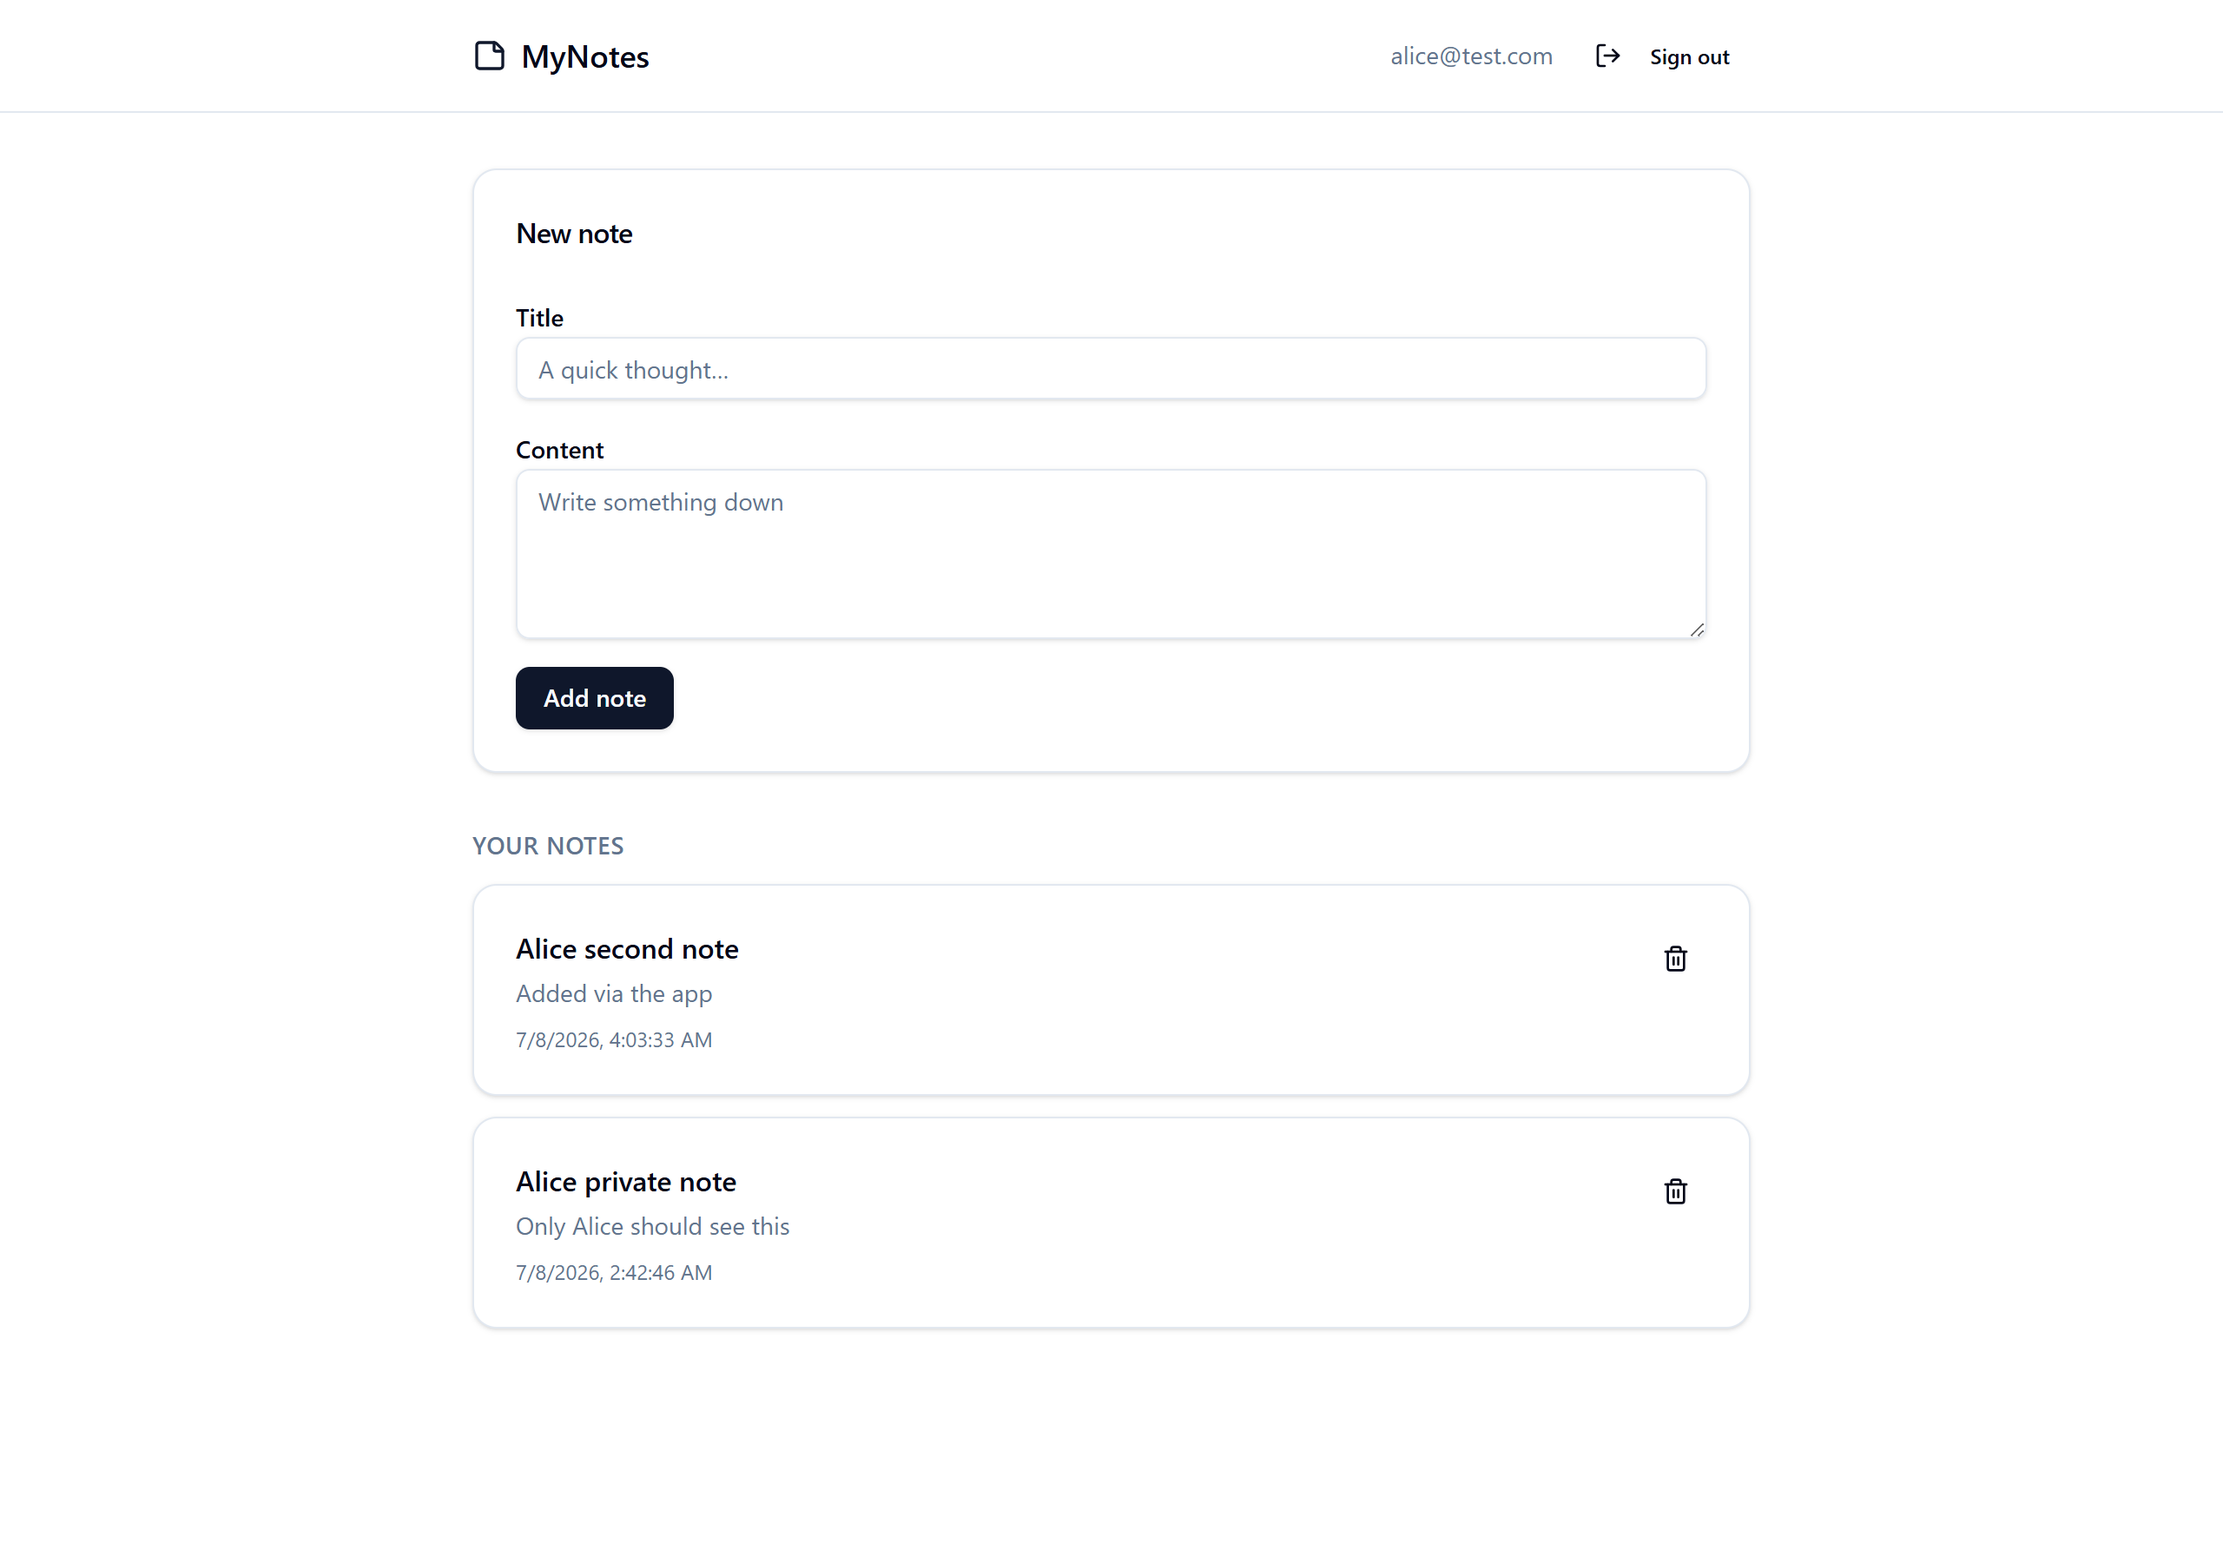
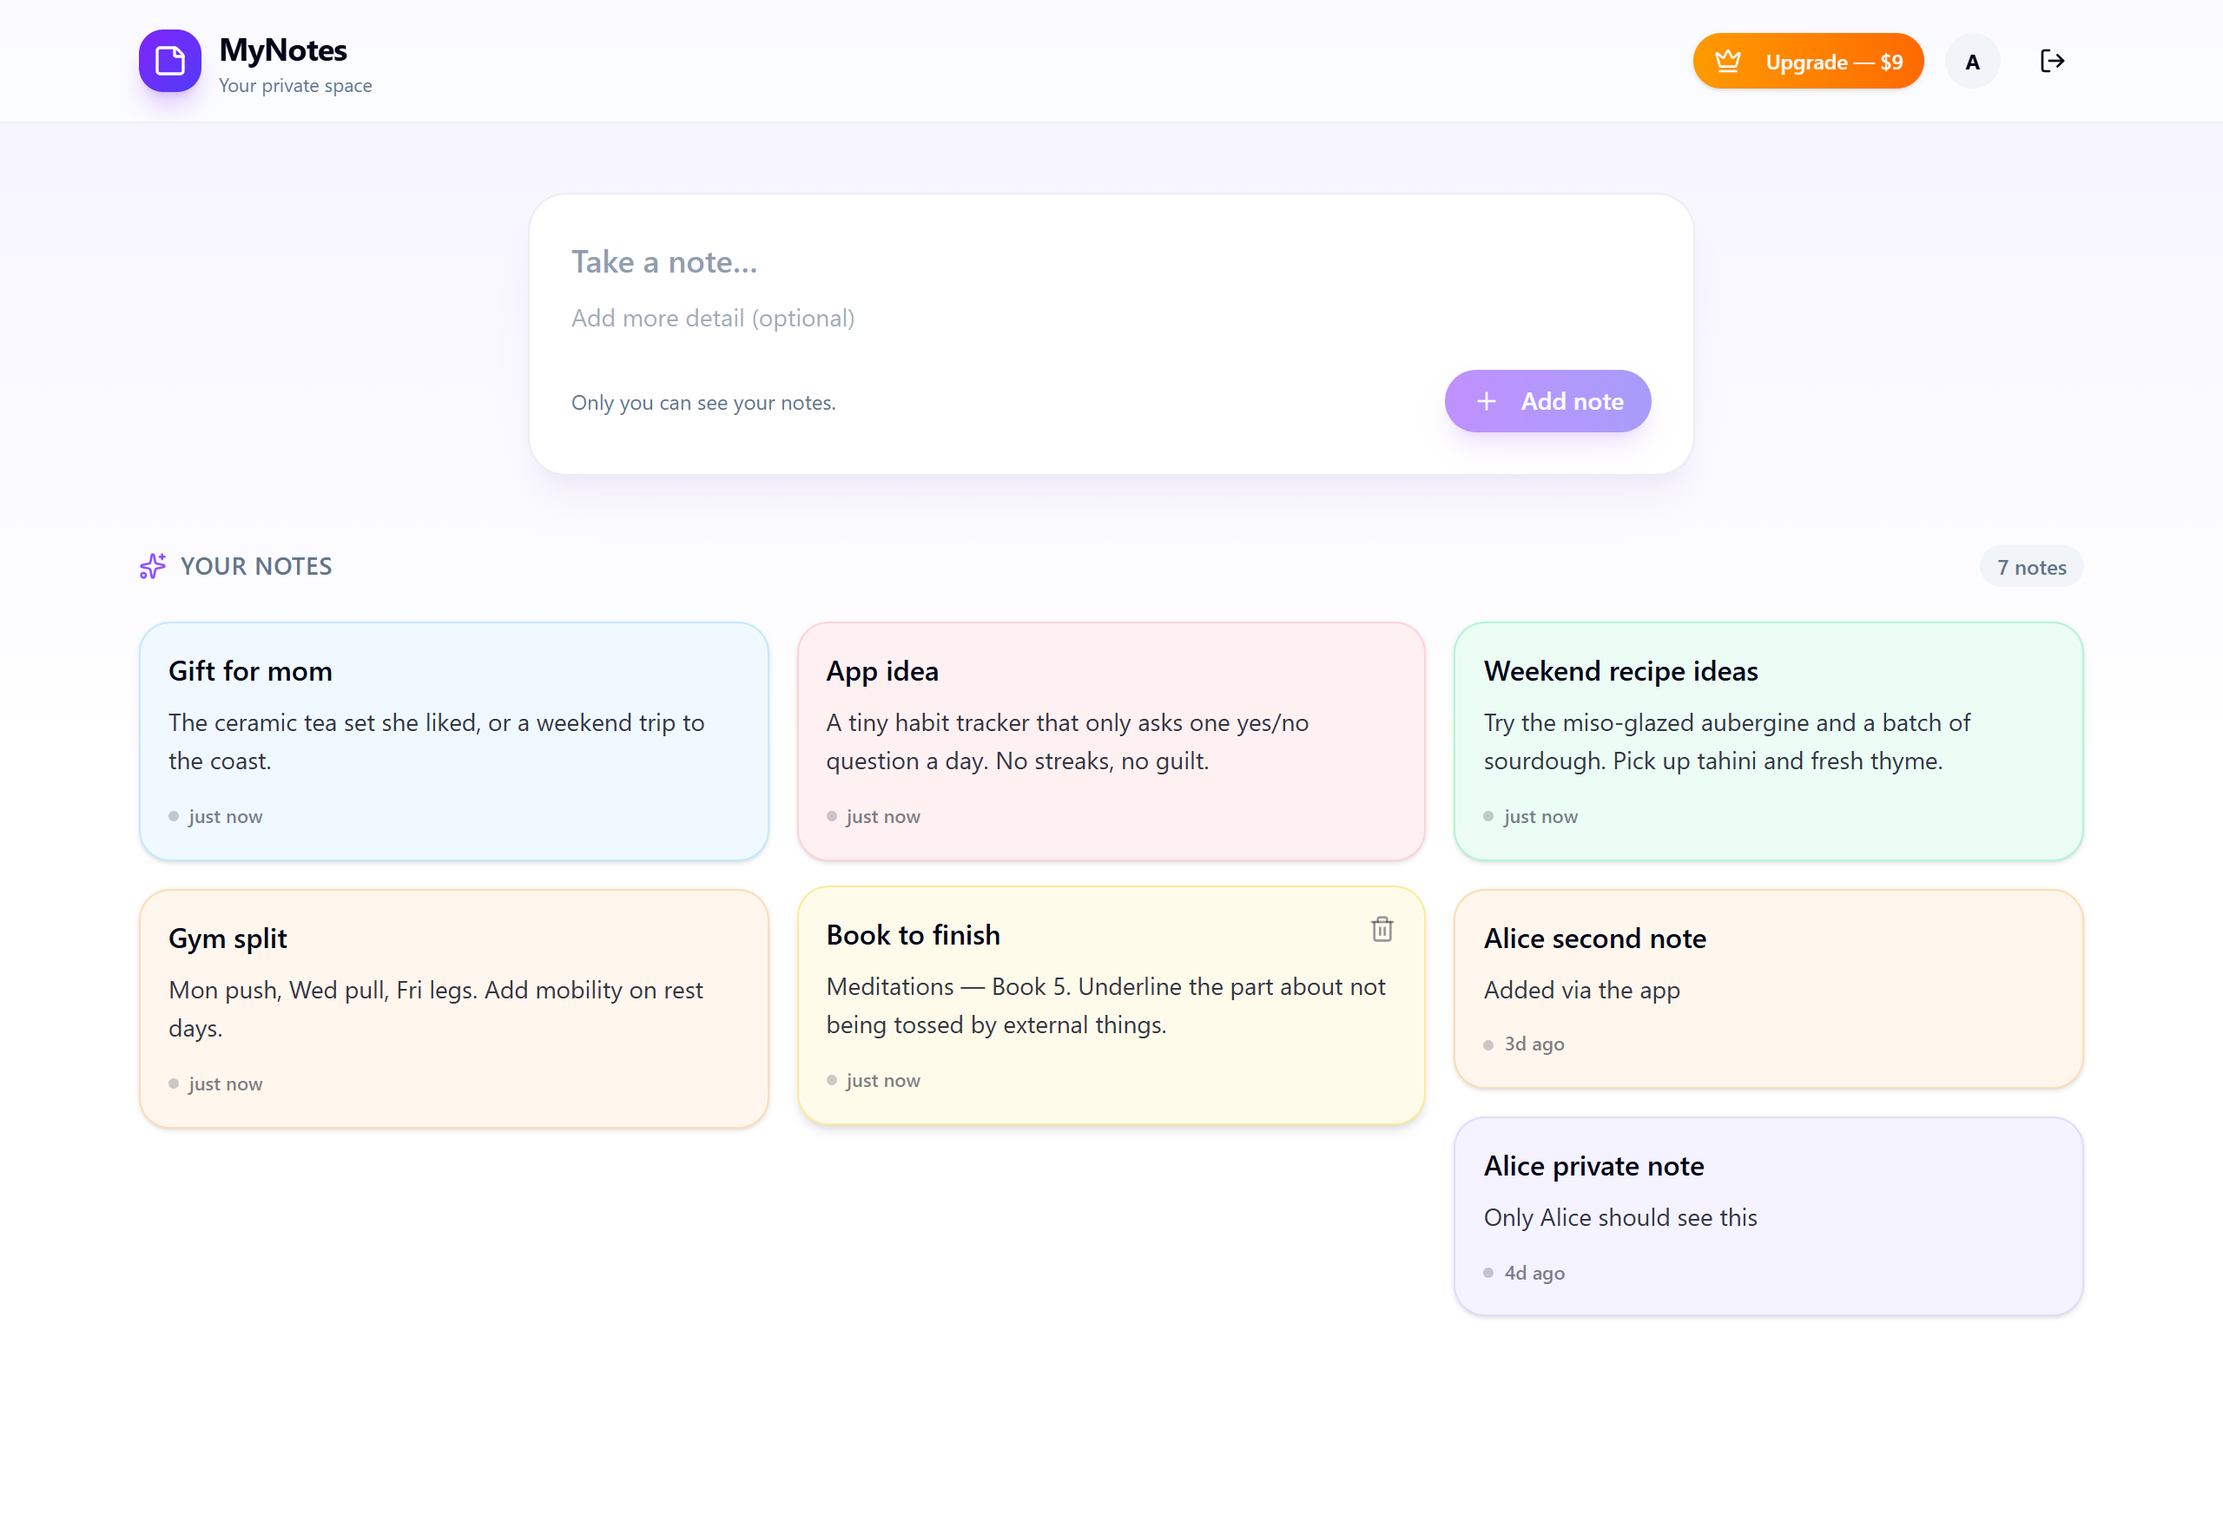
Redesign notes board: colorful masonry, gradient UI, richer composer
Replace the plain list with a Google-Keep-style board — pastel sticky-note
cards in a masonry layout, gradient header/composer/buttons, avatar, note
counter, skeleton loading, and a friendly empty state. Auth/RLS/Stripe
logic unchanged. Refresh the portfolio screenshot to match.

diff --git a/src/routes/_authenticated/notes.tsx b/src/routes/_authenticated/notes.tsx
@@ -2,13 +2,9 @@ import { createFileRoute, useNavigate } from "@tanstack/react-router";
 import { useEffect, useState } from "react";
 import { supabase } from "@/integrations/supabase/client";
 import { Button } from "@/components/ui/button";
-import { Input } from "@/components/ui/input";
-import { Textarea } from "@/components/ui/textarea";
-import { Card, CardContent, CardHeader, CardTitle } from "@/components/ui/card";
-import { Label } from "@/components/ui/label";
 import { toast } from "sonner";
 import { Toaster } from "@/components/ui/sonner";
-import { Trash2, StickyNote, LogOut, Crown } from "lucide-react";
+import { Trash2, StickyNote, LogOut, Crown, Plus, Sparkles } from "lucide-react";
 
 type Note = {
   id: string;
@@ -27,6 +23,27 @@ export const Route = createFileRoute("/_authenticated/notes")({
   }),
   component: NotesPage,
 });
+
+// Pastel palettes for the sticky-note cards, chosen deterministically per note.
+const NOTE_COLORS = [
+  "bg-amber-50 border-amber-200/80 dark:bg-amber-950/30 dark:border-amber-900/50",
+  "bg-rose-50 border-rose-200/80 dark:bg-rose-950/30 dark:border-rose-900/50",
+  "bg-sky-50 border-sky-200/80 dark:bg-sky-950/30 dark:border-sky-900/50",
+  "bg-violet-50 border-violet-200/80 dark:bg-violet-950/30 dark:border-violet-900/50",
+  "bg-emerald-50 border-emerald-200/80 dark:bg-emerald-950/30 dark:border-emerald-900/50",
+  "bg-orange-50 border-orange-200/80 dark:bg-orange-950/30 dark:border-orange-900/50",
+];
+const colorFor = (id: string) =>
+  NOTE_COLORS[[...id].reduce((a, c) => a + c.charCodeAt(0), 0) % NOTE_COLORS.length];
+
+function timeAgo(iso: string) {
+  const diff = (Date.now() - new Date(iso).getTime()) / 1000;
+  if (diff < 60) return "just now";
+  if (diff < 3600) return `${Math.floor(diff / 60)}m ago`;
+  if (diff < 86400) return `${Math.floor(diff / 3600)}h ago`;
+  if (diff < 604800) return `${Math.floor(diff / 86400)}d ago`;
+  return new Date(iso).toLocaleDateString(undefined, { month: "short", day: "numeric" });
+}
 
 function NotesPage() {
   const navigate = useNavigate();
@@ -122,108 +139,145 @@ function NotesPage() {
     navigate({ to: "/auth" });
   };
 
+  const initial = (user.email ?? "?")[0]?.toUpperCase();
+
   return (
-    <div className="min-h-screen bg-background">
+    <div className="min-h-screen bg-gradient-to-b from-violet-50 via-background to-background dark:from-violet-950/20">
       <Toaster />
-      <header className="border-b">
-        <div className="max-w-3xl mx-auto px-4 py-4 flex items-center justify-between">
-          <div className="flex items-center gap-2">
-            <StickyNote className="h-5 w-5 text-primary" />
-            <h1 className="text-lg font-semibold">MyNotes</h1>
+
+      {/* Header */}
+      <header className="sticky top-0 z-30 border-b border-border/60 bg-background/70 backdrop-blur-xl">
+        <div className="mx-auto flex max-w-6xl items-center justify-between px-4 py-3.5">
+          <div className="flex items-center gap-2.5">
+            <span className="grid h-9 w-9 place-items-center rounded-xl bg-gradient-to-br from-violet-600 to-indigo-600 text-white shadow-lg shadow-violet-600/25">
+              <StickyNote className="h-5 w-5" />
+            </span>
+            <div className="leading-tight">
+              <h1 className="text-lg font-bold tracking-tight">MyNotes</h1>
+              <p className="text-[11px] text-muted-foreground">Your private space</p>
+            </div>
           </div>
-          <div className="flex items-center gap-3">
-            <span className="text-sm text-muted-foreground hidden sm:inline">{user.email}</span>
+          <div className="flex items-center gap-2 sm:gap-3">
             {isPaid ? (
-              <span className="inline-flex items-center gap-1 rounded-full bg-primary/10 px-3 py-1 text-xs font-semibold text-primary">
+              <span className="inline-flex items-center gap-1.5 rounded-full bg-gradient-to-r from-amber-400 to-amber-500 px-3 py-1.5 text-xs font-bold text-white shadow-sm">
                 <Crown className="h-3.5 w-3.5" /> Premium
               </span>
             ) : (
-              <Button size="sm" onClick={upgrade} disabled={upgrading}>
-                <Crown className="h-4 w-4 mr-2" />
+              <Button
+                size="sm"
+                onClick={upgrade}
+                disabled={upgrading}
+                className="rounded-full bg-gradient-to-r from-amber-500 to-orange-500 font-semibold shadow-sm hover:opacity-90"
+              >
+                <Crown className="mr-1.5 h-4 w-4" />
                 {upgrading ? "Redirecting…" : "Upgrade — $9"}
               </Button>
             )}
-            <Button variant="ghost" size="sm" onClick={signOut}>
-              <LogOut className="h-4 w-4 mr-2" /> Sign out
+            <div className="hidden items-center gap-2 sm:flex">
+              <span className="grid h-8 w-8 place-items-center rounded-full bg-muted text-xs font-bold text-foreground">
+                {initial}
+              </span>
+            </div>
+            <Button variant="ghost" size="icon" onClick={signOut} aria-label="Sign out" className="rounded-full">
+              <LogOut className="h-4 w-4" />
             </Button>
           </div>
         </div>
       </header>
 
-      <main className="max-w-3xl mx-auto px-4 py-8 space-y-8">
-        <Card>
-          <CardHeader>
-            <CardTitle className="text-base">New note</CardTitle>
-          </CardHeader>
-          <CardContent>
-            <form onSubmit={addNote} className="space-y-4">
-              <div className="space-y-2">
-                <Label htmlFor="title">Title</Label>
-                <Input
-                  id="title"
-                  value={title}
-                  onChange={(e) => setTitle(e.target.value)}
-                  placeholder="A quick thought…"
-                  required
-                />
+      <main className="mx-auto max-w-6xl px-4 py-8 sm:py-10">
+        {/* Composer */}
+        <div className="mx-auto mb-10 max-w-2xl">
+          <form
+            onSubmit={addNote}
+            className="group relative rounded-3xl border border-border/70 bg-card p-2 shadow-xl shadow-violet-900/5 transition-shadow focus-within:shadow-2xl focus-within:shadow-violet-900/10"
+          >
+            <div className="rounded-[1.25rem] p-4">
+              <input
+                value={title}
+                onChange={(e) => setTitle(e.target.value)}
+                placeholder="Take a note…"
+                required
+                className="w-full bg-transparent text-lg font-semibold text-foreground outline-none placeholder:text-muted-foreground/70"
+              />
+              <textarea
+                value={content}
+                onChange={(e) => setContent(e.target.value)}
+                placeholder="Add more detail (optional)"
+                rows={content ? 3 : 1}
+                className="mt-2 w-full resize-none bg-transparent text-sm leading-relaxed text-foreground outline-none placeholder:text-muted-foreground/60"
+              />
+              <div className="mt-3 flex items-center justify-between">
+                <span className="text-xs text-muted-foreground">Only you can see your notes.</span>
+                <Button
+                  type="submit"
+                  disabled={saving || !title.trim()}
+                  className="rounded-full bg-gradient-to-r from-violet-600 to-indigo-600 font-semibold shadow-lg shadow-violet-600/25 hover:opacity-90"
+                >
+                  <Plus className="mr-1 h-4 w-4" />
+                  {saving ? "Adding…" : "Add note"}
+                </Button>
               </div>
-              <div className="space-y-2">
-                <Label htmlFor="content">Content</Label>
-                <Textarea
-                  id="content"
-                  value={content}
-                  onChange={(e) => setContent(e.target.value)}
-                  placeholder="Write something down"
-                  rows={4}
-                />
-              </div>
-              <Button type="submit" disabled={saving}>
-                {saving ? "Adding…" : "Add note"}
-              </Button>
-            </form>
-          </CardContent>
-        </Card>
+            </div>
+          </form>
+        </div>
 
-        <section className="space-y-3">
-          <h2 className="text-sm font-medium text-muted-foreground uppercase tracking-wide">
-            Your notes
+        {/* Stats row */}
+        <div className="mb-5 flex items-center justify-between">
+          <h2 className="flex items-center gap-2 text-sm font-semibold uppercase tracking-wide text-muted-foreground">
+            <Sparkles className="h-4 w-4 text-violet-500" /> Your notes
           </h2>
-          {loading ? (
-            <p className="text-sm text-muted-foreground">Loading…</p>
-          ) : notes.length === 0 ? (
-            <p className="text-sm text-muted-foreground">No notes yet. Add your first above.</p>
-          ) : (
-            <ul className="space-y-3">
-              {notes.map((n) => (
-                <li key={n.id}>
-                  <Card>
-                    <CardContent className="pt-6 flex items-start justify-between gap-4">
-                      <div className="min-w-0 flex-1">
-                        <h3 className="font-medium break-words">{n.title}</h3>
-                        {n.content && (
-                          <p className="mt-1 text-sm text-muted-foreground whitespace-pre-wrap break-words">
-                            {n.content}
-                          </p>
-                        )}
-                        <p className="mt-2 text-xs text-muted-foreground">
-                          {new Date(n.created_at).toLocaleString()}
-                        </p>
-                      </div>
-                      <Button
-                        variant="ghost"
-                        size="icon"
-                        onClick={() => deleteNote(n.id)}
-                        aria-label="Delete note"
-                      >
-                        <Trash2 className="h-4 w-4" />
-                      </Button>
-                    </CardContent>
-                  </Card>
-                </li>
-              ))}
-            </ul>
-          )}
-        </section>
+          <span className="rounded-full bg-muted px-2.5 py-1 text-xs font-medium text-muted-foreground">
+            {notes.length} {notes.length === 1 ? "note" : "notes"}
+          </span>
+        </div>
+
+        {/* Notes */}
+        {loading ? (
+          <div className="columns-1 gap-4 sm:columns-2 lg:columns-3 [&>*]:mb-4 [&>*]:break-inside-avoid">
+            {Array.from({ length: 6 }).map((_, i) => (
+              <div key={i} className="h-32 animate-pulse rounded-2xl border border-border/60 bg-muted/60" />
+            ))}
+          </div>
+        ) : notes.length === 0 ? (
+          <div className="flex flex-col items-center justify-center rounded-3xl border border-dashed border-border py-20 text-center">
+            <span className="grid h-14 w-14 place-items-center rounded-2xl bg-gradient-to-br from-violet-100 to-indigo-100 text-violet-600 dark:from-violet-950/40 dark:to-indigo-950/40">
+              <StickyNote className="h-7 w-7" />
+            </span>
+            <h3 className="mt-4 text-lg font-semibold">No notes yet</h3>
+            <p className="mt-1 max-w-xs text-sm text-muted-foreground">
+              Jot down your first thought using the box above — it's saved instantly and only visible to you.
+            </p>
+          </div>
+        ) : (
+          <div className="columns-1 gap-4 sm:columns-2 lg:columns-3 [&>*]:mb-4 [&>*]:break-inside-avoid">
+            {notes.map((n) => (
+              <article
+                key={n.id}
+                className={`group relative rounded-2xl border p-4 shadow-sm transition-all hover:-translate-y-0.5 hover:shadow-md ${colorFor(n.id)}`}
+              >
+                <h3 className="pr-6 font-semibold leading-snug text-foreground break-words">{n.title}</h3>
+                {n.content && (
+                  <p className="mt-2 whitespace-pre-wrap break-words text-sm leading-relaxed text-foreground/80">
+                    {n.content}
+                  </p>
+                )}
+                <div className="mt-3 flex items-center gap-1.5 text-[11px] font-medium text-foreground/50">
+                  <span className="h-1.5 w-1.5 rounded-full bg-current opacity-40" />
+                  {timeAgo(n.created_at)}
+                </div>
+                <button
+                  type="button"
+                  onClick={() => deleteNote(n.id)}
+                  aria-label="Delete note"
+                  className="absolute right-2 top-2 grid h-8 w-8 place-items-center rounded-full text-foreground/40 opacity-0 transition-all hover:bg-background/60 hover:text-rose-600 group-hover:opacity-100"
+                >
+                  <Trash2 className="h-4 w-4" />
+                </button>
+              </article>
+            ))}
+          </div>
+        )}
       </main>
     </div>
   );
